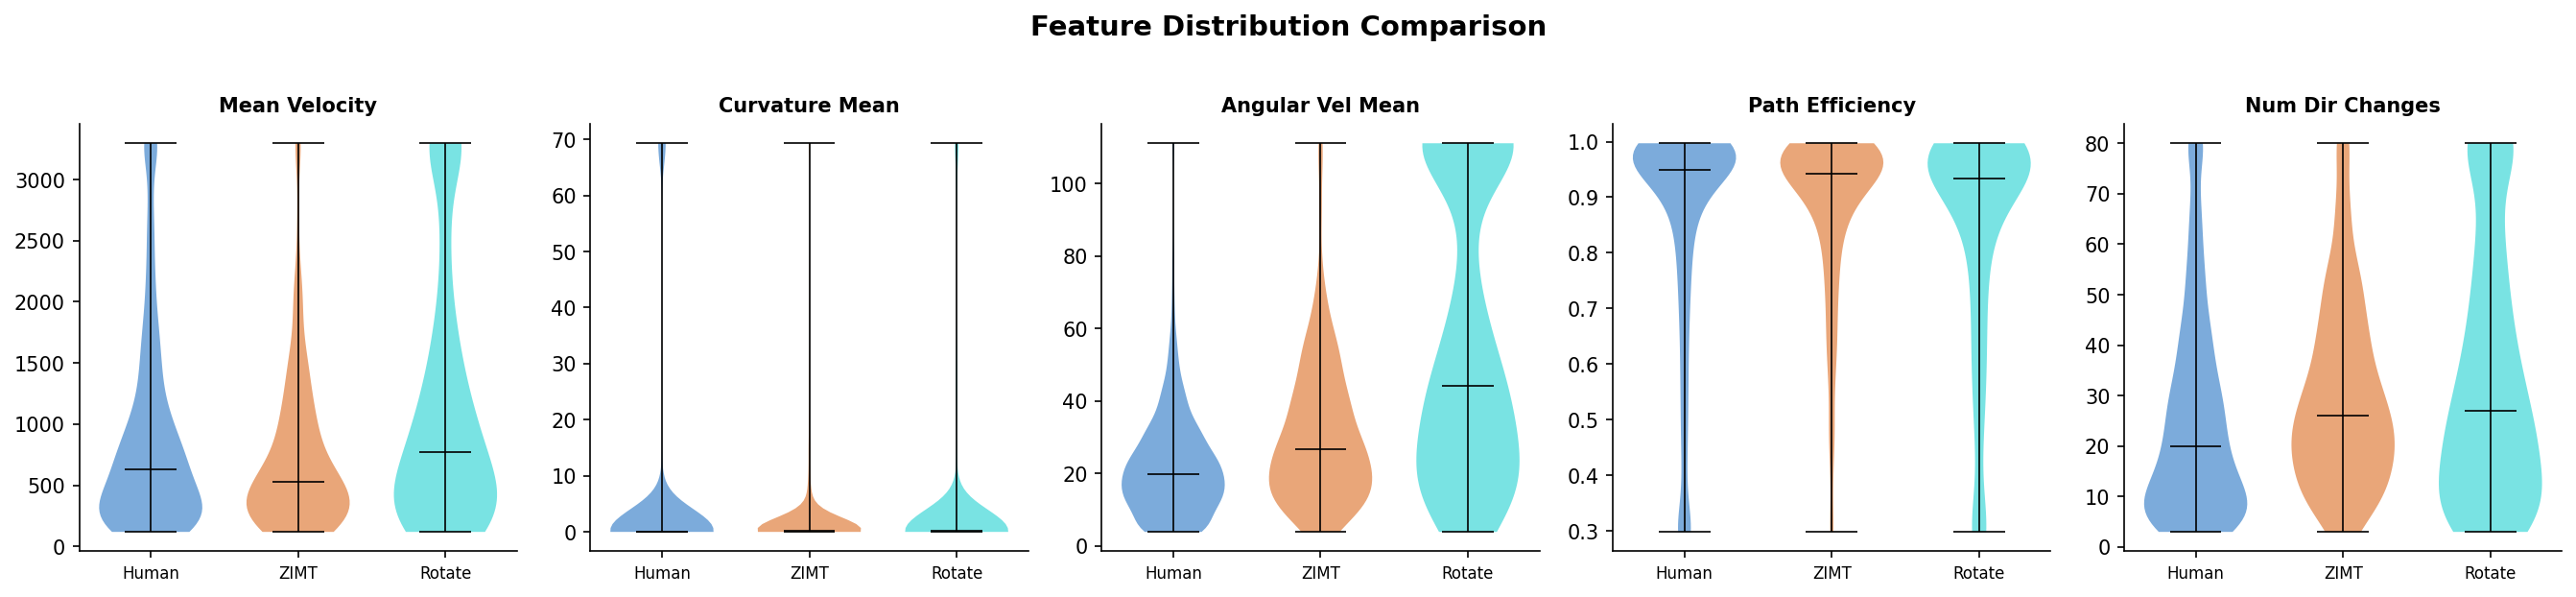
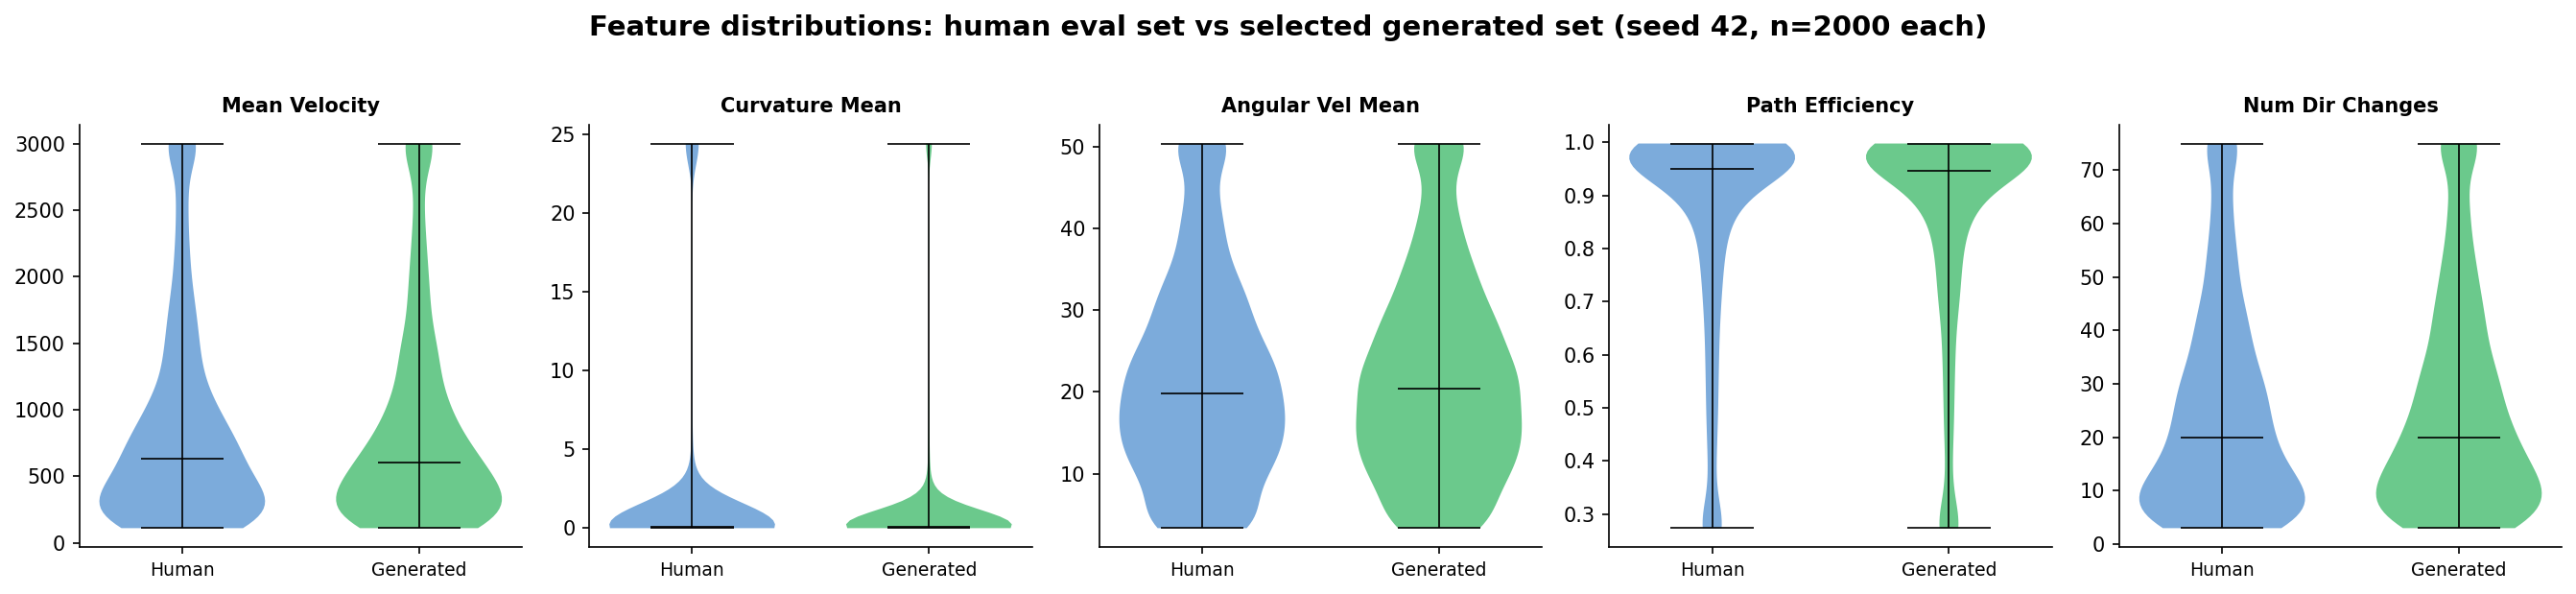
docs: regenerate remaining README figures for the event-stream model
trajectory_overlay.png now shows held-out human movements next to generated
ones at matched distances, each panel the median-directness path within a
12 percent distance band so examples are typical of the selected set.
feature_distributions.png compares the human eval set against the selected
generated set behind the 0.504 result. Both rebuilt CPU-only from the cached
seed-42 candidate pool and trust-loop picks, no fresh sampling. PLAN.md
status brought up to date, journal entry added.

Claude-Session: https://claude.ai/code/session_013Uo2wi6TBZWrNCbojmRUdx

diff --git a/generate_figures.py b/generate_figures.py
@@ -80,43 +80,106 @@ def fig_auc_progression():
     print(f"Saved {out}")
 
 
+POOL_FILE = "pool_s42_k16.npz"
+PICKS_FILE = "pool_s42_k16_picks_trust33_f20d85_r30_rf.npy"
+
+
+def _load_selected_pool():
+    """Selected set for seed 42: the exact trajectories behind the 0.504 result.
+
+    Returns (trajs, feats): one raw trajectory and one 18-feature row per spec,
+    taken from the cached candidate pool via the winning trust-loop picks.
+    No GPU work; the pool was generated once and cached.
+    """
+    d = np.load(POOL_FILE, allow_pickle=True)
+    picks = np.load(PICKS_FILE).astype(int)
+    picks = picks[picks >= 0]
+    trajs = [np.asarray(d["trajs"][ci], dtype=np.float64) for ci in picks]
+    feats = d["X"][picks]
+    return trajs, feats
+
+
 def fig_trajectory_overlay():
-    """Overlay of human, ZIMT, and corpus_rotate trajectories for the same query."""
-    from experiments._common import Trajectory
-    from experiments.zimt_magcorr import generate_path as zimt_generate
-    from experiments.corpus_rotate import generate_path as rotate_generate
+    """Held-out human paths next to generated paths of matched lengths."""
+    from features import FEATURE_NAMES
 
-    np.random.seed(42)
-    human_feats = np.load("data/human_eval_features.npy")
-    distances = np.load("data/human_distances.npy")
+    gen_trajs, gen_feats = _load_selected_pool()
+    eff_i = FEATURE_NAMES.index("path_efficiency")
 
-    start_x, start_y = 150.0, 640.0
-    end_x, end_y = 350.0, 950.0
+    positions = np.load("training/test_positions.npy", mmap_mode="r")
+    n_real = np.load("training/test_n_real.npy")
+    conditions = np.load("training/test_conditions.npy", mmap_mode="r")
 
-    zimt_traj = zimt_generate(start_x, start_y, end_x, end_y)
-    rotate_traj = rotate_generate(start_x, start_y, end_x, end_y)
+    def gen_distance(traj):
+        return float(np.hypot(traj[-1, 0] - traj[0, 0], traj[-1, 1] - traj[0, 1]))
 
-    zx = [p[0] for p in zimt_traj]
-    zy = [p[1] for p in zimt_traj]
-    rx = [p[0] for p in rotate_traj]
-    ry = [p[1] for p in rotate_traj]
+    # Four generated paths spanning short to long movements. Within each
+    # distance band take the path of median directness, so the examples are
+    # typical of the selected set rather than tail cases.
+    dists = np.array([gen_distance(t) for t in gen_trajs])
+    lens = np.array([len(t) for t in gen_trajs])
+    chosen_gen = []
+    for q in (25, 50, 75, 92):
+        target = np.percentile(dists, q)
+        band = np.where((np.abs(dists - target) < 0.12 * target)
+                        & (lens >= 15))[0]
+        band = np.array([i for i in band if i not in chosen_gen])
+        effs = gen_feats[band, eff_i]
+        idx = int(band[np.argsort(effs)[len(effs) // 2]])
+        chosen_gen.append(idx)
 
-    fig, ax = plt.subplots(figsize=(7, 7))
-    ax.plot(rx, ry, color="#40D8D8", linewidth=2.0, label="Corpus Rotate", alpha=0.85)
-    ax.plot(zx, zy, color="#E08040", linewidth=2.0, label="ZIMT (magcorr)", alpha=0.85)
+    # Match each generated path with a held-out human path of similar
+    # distance and typical directness.
+    rng = np.random.default_rng(7)
+    hum_pool = rng.choice(len(n_real), size=20000, replace=False)
+    hum_pool = hum_pool[n_real[hum_pool] >= 40]
+    hum_dist = np.exp(np.asarray(conditions[hum_pool, 0], dtype=np.float64))
+    chosen_hum = []
+    for gi in chosen_gen:
+        cand = hum_pool[np.abs(hum_dist - dists[gi]) < 0.12 * dists[gi]]
+        cand = np.array([h for h in cand if h not in chosen_hum])
+        effs = []
+        for h in cand[:200]:
+            L = int(n_real[h])
+            p = np.asarray(positions[h, :L], dtype=np.float64)
+            seg = np.hypot(*np.diff(p, axis=0).T).sum()
+            effs.append(1.0 / max(seg, 1e-9))
+        chosen_hum.append(int(cand[:200][np.argsort(effs)[len(effs) // 2]]))
 
-    ax.plot(start_x, start_y, "ko", markersize=10, zorder=5, label="Start")
-    ax.plot(end_x, end_y, "kX", markersize=12, zorder=5, label="End")
+    fig, axes = plt.subplots(2, 4, figsize=(15, 7.5))
+    for col in range(4):
+        hi = chosen_hum[col]
+        L = int(n_real[hi])
+        scale = float(np.exp(conditions[hi, 0]))
+        hp = np.asarray(positions[hi, :L], dtype=np.float64) * scale
 
-    ax.set_xlabel("x (px)", fontsize=12)
-    ax.set_ylabel("y (px)", fontsize=12)
-    ax.set_title("Generated Trajectories", fontsize=14, fontweight="bold")
-    ax.legend(fontsize=10)
-    ax.set_aspect("equal")
-    ax.spines["top"].set_visible(False)
-    ax.spines["right"].set_visible(False)
+        gi = chosen_gen[col]
+        gp = gen_trajs[gi][:, :2] - gen_trajs[gi][0, :2]
 
-    plt.tight_layout()
+        for row, (p, color, name) in enumerate(
+                [(hp, "#4488CC", "Human (held out)"),
+                 (gp, "#2CB25C", "Generated (selected)")]):
+            ax = axes[row, col]
+            ax.plot(p[:, 0], p[:, 1], color=color, linewidth=1.6, alpha=0.9)
+            ax.plot(p[0, 0], p[0, 1], "ko", markersize=6, zorder=5)
+            ax.plot(p[-1, 0], p[-1, 1], "kX", markersize=8, zorder=5)
+            d = np.hypot(p[-1, 0] - p[0, 0], p[-1, 1] - p[0, 1])
+            ax.set_title(f"{name}, {d:.0f} px", fontsize=10)
+            # Square, centered limits so every panel gets the same box.
+            cx = (p[:, 0].min() + p[:, 0].max()) / 2
+            cy = (p[:, 1].min() + p[:, 1].max()) / 2
+            r = max(p[:, 0].max() - p[:, 0].min(),
+                    p[:, 1].max() - p[:, 1].min()) / 2 * 1.15 + 1.0
+            ax.set_xlim(cx - r, cx + r)
+            ax.set_ylim(cy - r, cy + r)
+            ax.set_aspect("equal")
+            ax.tick_params(labelsize=8)
+            ax.spines["top"].set_visible(False)
+            ax.spines["right"].set_visible(False)
+
+    fig.suptitle("Held-out human vs generated trajectories (event-stream model, "
+                 "set-level selection, seed 42)", fontsize=14, fontweight="bold")
+    plt.tight_layout(rect=(0, 0, 1, 0.96))
     out = FIGURES_DIR / "trajectory_overlay.png"
     fig.savefig(out, dpi=150, bbox_inches="tight")
     plt.close(fig)
@@ -124,16 +187,11 @@ def fig_trajectory_overlay():
 
 
 def fig_feature_distributions():
-    """Violin plots comparing human vs ZIMT vs corpus_rotate feature distributions."""
-    from features import extract_features, FEATURE_NAMES
-    from experiments.zimt_magcorr import generate_path as zimt_generate
-    from experiments.corpus_rotate import generate_path as rotate_generate
+    """Violin plots: human eval features vs the selected generated set."""
+    from features import FEATURE_NAMES
 
     human_feats = np.load("data/human_eval_features.npy")
-    distances = np.load("data/human_distances.npy")
-
-    n_samples = 500
-    rng = np.random.default_rng(42)
+    _, gen_feats = _load_selected_pool()
 
     display_features = [
         ("mean_velocity", "Mean Velocity"),
@@ -144,28 +202,6 @@ def fig_feature_distributions():
     ]
     feat_indices = [FEATURE_NAMES.index(f[0]) for f in display_features]
 
-    def _generate_features(gen_fn, n):
-        feats = []
-        for i in range(n):
-            idx = rng.integers(0, len(distances))
-            dist = distances[idx]
-            angle = rng.uniform(0, 2 * np.pi)
-            sx, sy = 500.0, 500.0
-            ex = sx + dist * np.cos(angle)
-            ey = sy + dist * np.sin(angle)
-            traj = gen_fn(sx, sy, ex, ey)
-            f = extract_features(traj)
-            if f is not None:
-                feats.append(f)
-            if (i + 1) % 100 == 0:
-                print(f"  {i + 1}/{n}")
-        return np.array(feats)
-
-    print(f"Generating {n_samples} ZIMT trajectories...")
-    zimt_feats = _generate_features(zimt_generate, n_samples)
-    print(f"Generating {n_samples} corpus_rotate trajectories...")
-    rotate_feats = _generate_features(rotate_generate, n_samples)
-
     fig, axes = plt.subplots(1, len(display_features), figsize=(18, 4))
 
     for ax_i, (feat_name, display_name) in enumerate(display_features):
@@ -173,19 +209,17 @@ def fig_feature_distributions():
         ax = axes[ax_i]
 
         h_vals = human_feats[:, fi]
-        z_vals = zimt_feats[:, fi]
-        r_vals = rotate_feats[:, fi]
+        g_vals = gen_feats[:, fi]
 
-        all_vals = np.concatenate([h_vals, z_vals, r_vals])
+        all_vals = np.concatenate([h_vals, g_vals])
         p95 = np.percentile(all_vals, 95)
         p5 = np.percentile(all_vals, 5)
         h_clip = np.clip(h_vals, p5, p95)
-        z_clip = np.clip(z_vals, p5, p95)
-        r_clip = np.clip(r_vals, p5, p95)
+        g_clip = np.clip(g_vals, p5, p95)
 
-        data = [h_clip, z_clip, r_clip]
-        positions = [1, 2, 3]
-        colors = ["#4488CC", "#E08040", "#40D8D8"]
+        data = [h_clip, g_clip]
+        positions = [1, 2]
+        colors = ["#4488CC", "#2CB25C"]
 
         parts = ax.violinplot(data, positions=positions, showmedians=True, widths=0.7)
         for pc, color in zip(parts["bodies"], colors):
@@ -196,12 +230,13 @@ def fig_feature_distributions():
             parts[key].set_linewidth(0.8)
 
         ax.set_xticks(positions)
-        ax.set_xticklabels(["Human", "ZIMT", "Rotate"], fontsize=8)
+        ax.set_xticklabels(["Human", "Generated"], fontsize=9)
         ax.set_title(display_name, fontsize=10, fontweight="bold")
         ax.spines["top"].set_visible(False)
         ax.spines["right"].set_visible(False)
 
-    fig.suptitle("Feature Distribution Comparison", fontsize=14, fontweight="bold", y=1.02)
+    fig.suptitle("Feature distributions: human eval set vs selected generated set "
+                 "(seed 42, n=2000 each)", fontsize=14, fontweight="bold", y=1.02)
     plt.tight_layout()
     out = FIGURES_DIR / "feature_distributions.png"
     fig.savefig(out, dpi=150, bbox_inches="tight")

diff --git a/EXPERIMENTS.md b/EXPERIMENTS.md
@@ -2844,3 +2844,23 @@ the honest resting place of a generator a detector genuinely cannot separate,
 where a sub-0.50 figure invites a misread that the metric was overshot. The
 18-dim result stands recorded here as the alternative; both land at chance,
 and neither is cherry-picked over the other on the primary axis.
+
+## Figures moved to the event-stream era (July 7, morning)
+
+The two remaining README figures still showed the ZIMT and corpus-rotate
+models from May. Both were regenerated without touching the GPU: the seed-42
+candidate pool caches the raw trajectory behind every candidate, and the
+trust-loop picks file names the winner per spec, so the exact selected set
+behind the 0.504 result can be reconstructed offline.
+
+trajectory_overlay.png now shows four held-out human movements above four
+generated ones at matched distances (73 to 828 px). To keep the examples
+typical rather than flattering or damning, each panel takes the path of
+median directness within a 12 percent distance band, for both classes.
+feature_distributions.png now compares the human eval set against the
+selected generated set (n=2000 each) on the same five features as before;
+the two sets of violins are close to indistinguishable by eye, which is the
+picture a 0.504 detector score predicts.
+
+Also this session: docs committed at the 0.504 headline (eeb44d9), PLAN.md
+status brought up to date, three dead docs removed in the same commit.